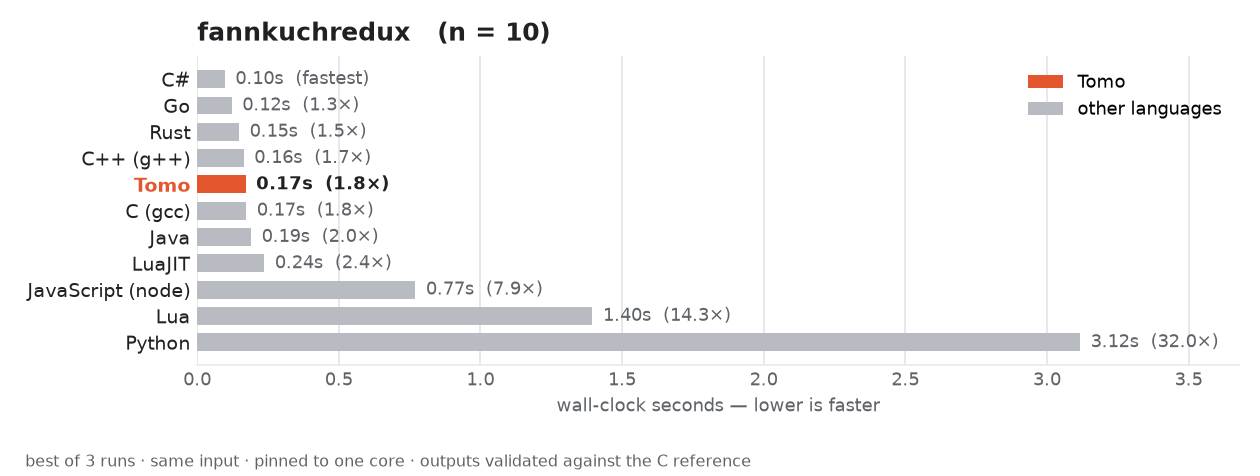
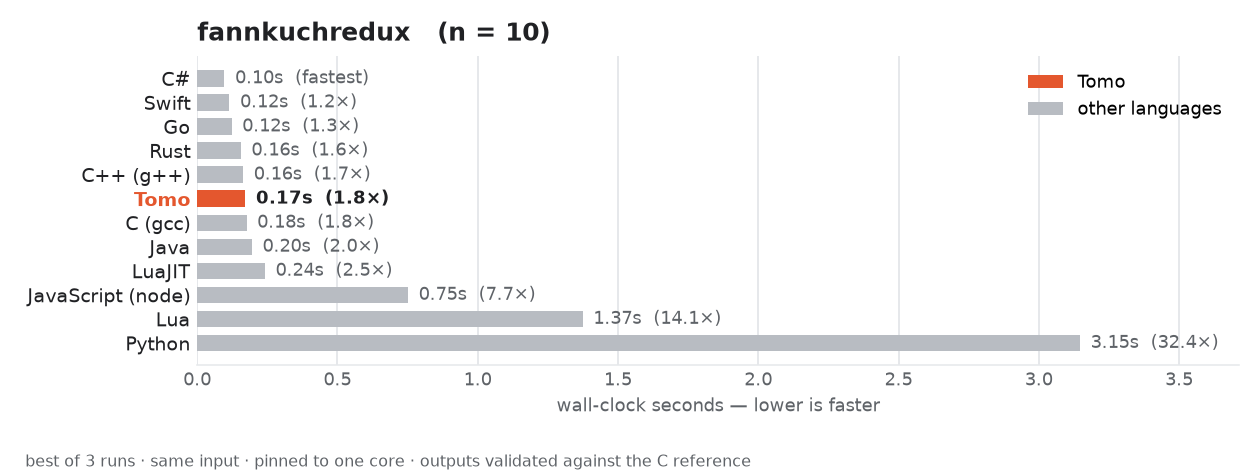
Enable Swift across the benchmark suite
swiftc is now installed, so Swift moves from "skipped" to active. It's built
AOT with `swiftc -O` and validates on all five benchmarks — fast on the compute
loops (3rd on n-body, 2nd on fannkuch), slower on binary-trees where its
class/ARC allocation is costly.

Two slugs needed adjusting for a current (6.x) toolchain and the required
output format: n-body uses swift-3 (swift-1 prints unformatted doubles instead
of %.9f) and k-nucleotide uses swift-2 (swift-1 calls the long-removed
String.characters). All outputs validated against the C reference; graphs
regenerated.

diff --git a/benchmarks/README.md b/benchmarks/README.md
@@ -94,8 +94,7 @@ comparison.
 
 | Status | Languages |
 |--------|-----------|
-| Active | C (gcc), C++ (g++), Rust, Go, Java, C#, JavaScript (node), Lua, LuaJIT, Python, **Tomo** |
-| Skipped here | Swift — no `swiftc` toolchain installed on this machine |
+| Active | C (gcc), C++ (g++), Rust, Go, Java, C#, Swift, JavaScript (node), Lua, LuaJIT, Python, **Tomo** |
 
 C# uses **Native AOT** (`dotnet publish` with `PublishAot`), matching the
 CLBG `csharpaot` entries: the driver writes a minimal AOT `.csproj`, drops the
@@ -105,6 +104,13 @@ runtime startup a `dotnet foo.dll` launch adds to every short run. It needs the
 .NET SDK plus `clang` (for the final native link); machines without both are
 skipped. The first AOT build restores the ILCompiler package from NuGet, so it
 needs network access once.
+
+Swift is compiled ahead-of-time with `swiftc -O`. A few CLBG Swift entries are
+too old for a current toolchain (Swift 6.x) or skip the benchmark's required
+output format, so the slugs are chosen to avoid those: **n-body** uses
+`swift-3` (`swift-1` prints unformatted doubles instead of `%.9f`) and
+**k-nucleotide** uses `swift-2` (`swift-1` calls the long-removed
+`String.characters`).
 
 A language with no installed toolchain is skipped with a message rather than
 failing the run.
